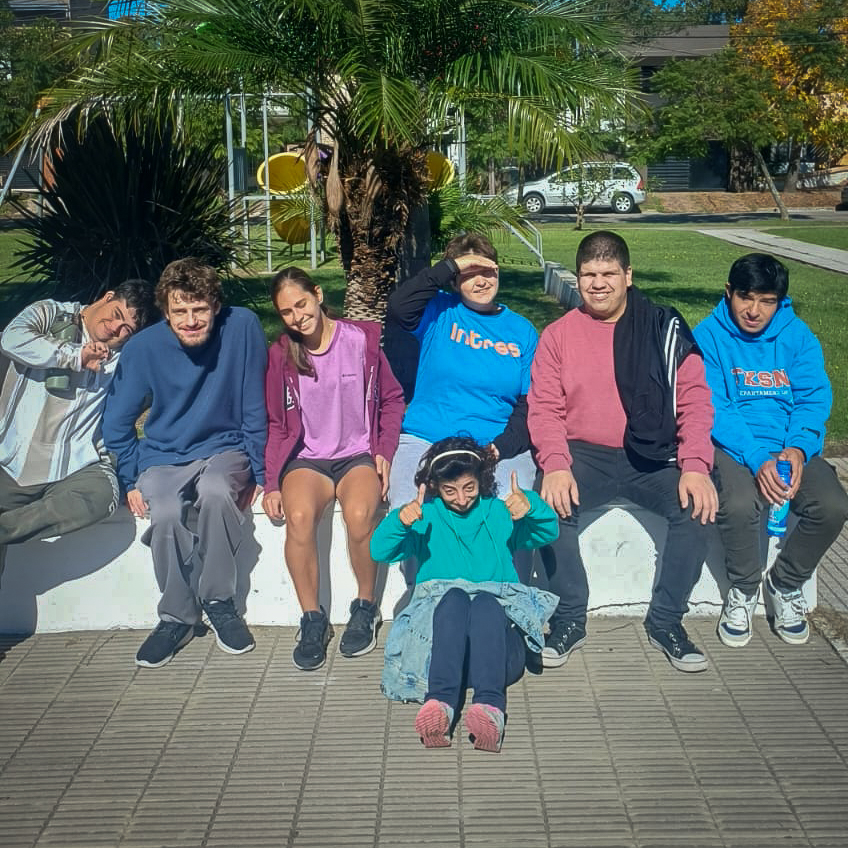
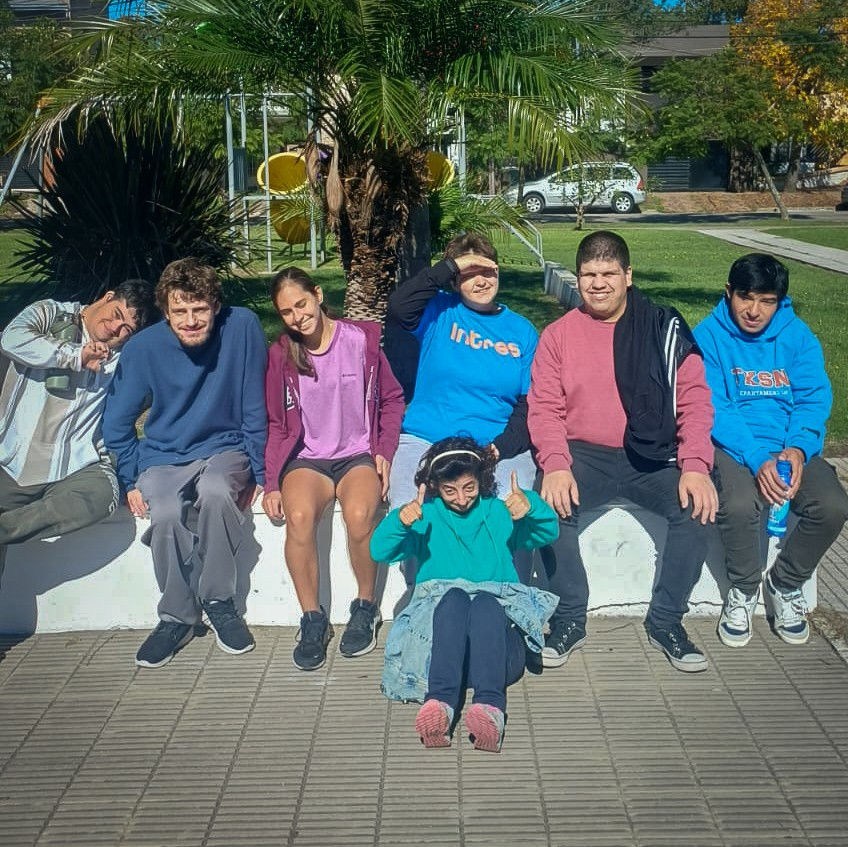
content: update group descriptions, interviews, messages and add new moment images

diff --git a/src/lib/groupsData.ts b/src/lib/groupsData.ts
@@ -63,10 +63,8 @@ export const GROUPS_DATA: GroupDetail[] = [
       { name: "Miguel", icon: "coffee", details: ["Fútbol", "Compartir mates", "Ver películas"], avatarUrl: "/images/group/campeones_del_flow/Miguel.jpg" }
     ],
     messages: [
-      { text: "Gracias por bancarnos siempre y por escucharnos.", author: "Miguel", color: "yellow" },
-      { text: "Sos buen compañero, siempre estás.", author: "Antonella", color: "pink" },
-      { text: "Gracias por enseñar desde el corazón.", author: "Clara", color: "green" },
-      { text: "Por más mates y charlas como las de siempre :)", author: "Antonio", color: "pink" }
+      { text: "Gracias agus por estar siempre con nosotros", author: "", color: "yellow" },
+      { text: "Por mas mates y charlas", author: "", color: "pink" }
     ],
     moments: [
       { imageUrl: "/images/group/campeones_del_flow/momento.jpg", caption: "❤", rotation: -3 },
@@ -92,7 +90,7 @@ export const GROUPS_DATA: GroupDetail[] = [
       role: "TUTORA DEL GRUPO",
       avatarUrl: "/images/group/buenas_vibras/CatalinaTutor.jpg",
       bio: "Coordinadora de talleres de integración. Cree en el poder de la cotidianidad y el juego para sanar vínculos.",
-      quote: "El encuentro verdadero ocurre cuando nos escuchamos despacio.",
+      quote: "Me gusta acompañarlos en sus procesos",
       formation: [
         "Terapista Ocupacional"
       ],
@@ -110,13 +108,11 @@ export const GROUPS_DATA: GroupDetail[] = [
     },
     interview: {
       qaList: [
-        { question: "¿Cómo surgió el nombre 'Buenas Vibras'?", answer: "" },
         { question: "¿De qué te vas a recibir?", answer: "Este año me recibo de terapista ocupacional si todo sale bien el 13 de Julio, ya falta poco, solo un mes." },
         { question: "¿Qué deporte te gusta?", answer: "Mi deporte favorito es el Hockey, desde los 7 años que juego al Hockey. También me gusta mucho el Futbol, ahora con el mundial intento mirar todos los partidos, me gusta el deporte." },
         { question: "¿Qué te gusta comer?", answer: "Me gusta comer de todo, las hamburguesas me gustan mucho, lo confieso (ríe). También la comida que no puede faltar es la milanesa napolitana con papas fritas, me encanta" },
         { question: "¿Qué cosas te hacen reír?", answer: "Las ocurrencias espontáneas. A veces nos quedamos tentados de la risa por cosas muy simples." },
-        { question: "¿Qué es lo que mas te gusta de trabajar con nosotros?", answer: "Lo que mas me gusta de trabajar con ustedes es acompañarlos en sus procesos; me gusta que crezcan, que sean autónomos, que puedan elegir y decidir. Lo que mas me gusta es acompañarlos en ese proceso" },
-        { question: "¿Qué aprendiste de este grupo?", answer: "." }
+        { question: "¿Qué es lo que mas te gusta de trabajar con nosotros?", answer: "Lo que mas me gusta de trabajar con ustedes es acompañarlos en sus procesos; me gusta que crezcan, que sean autónomos, que puedan elegir y decidir. Lo que mas me gusta es acompañarlos en ese proceso" }
       ],
       keywords: ["Escucha", "Mateada", "Cuidado"]
     },
@@ -139,9 +135,11 @@ export const GROUPS_DATA: GroupDetail[] = [
       { text: "No te vayas . Te queremos.", author: "#Buenas vibras", color: "green" }
     ],
     moments: [
-      { imageUrl: "/images/group/buenas_vibras/Brian.jpg", caption: "Compartiendo momentos", rotation: -2 },
-      { imageUrl: "/images/group/buenas_vibras/Gianni.jpg", caption: "Tarde de risas", rotation: 3 },
-      { imageUrl: "/images/group/buenas_vibras/Martina.jpg", caption: "Risas compartidas", rotation: -4 }
+      { imageUrl: "/images/group/buenas_vibras/momento.jpg", caption: "Compartiendo momentos", rotation: -2 },
+      { imageUrl: "/images/group/buenas_vibras/momento2.jpg", caption: "Tarde de risas", rotation: 3 },
+      { imageUrl: "/images/group/buenas_vibras/momento3.jpg", caption: "Risas compartidas", rotation: -4 },
+      { imageUrl: "/images/group/buenas_vibras/momento4.jpg", caption: "Creando juntos", rotation: 2 },
+      { imageUrl: "/images/group/buenas_vibras/momento5.jpg", caption: "Nuestro espacio", rotation: -3 }
     ],
     momentsCaption: "El valor de compartir momentos simples"
   },
@@ -160,13 +158,13 @@ export const GROUPS_DATA: GroupDetail[] = [
       name: "Sebastián",
       role: "TUTOR DEL GRUPO",
       avatarUrl: "/images/group/corazones_en_equipo/SebastianTutor.jpg",
-      bio: "Coordinador de actividades recreativas y artísticas. Apasionado por la música y el trabajo grupal.",
+      bio: "Me gusta verlos trabajar tanto grupal como individualmente",
       quote: "La música y el juego nos conectan desde el alma.",
       formation: [
-        "Acompañante terapéutico",
-        "Terapista Ocupacional"
+        "Estudiante avanzado de Terapia Ocupacional",
+        "Acompañante terapéutico"
       ],
-      interests: ["Música", "Arte", "Juegos", "Mates"]
+      interests: ["Fútbol", "Tenis", "Asado", "Pasear", "Mate", "Cancha"]
     },
     objective: {
       resume: "Promover la autonomía, la comunicación y el compromiso con el grupo, desarrollando habilidades para la vida cotidiana, la convivencia y la participación en distintos espacios", 
@@ -180,9 +178,15 @@ export const GROUPS_DATA: GroupDetail[] = [
     },
     interview: {
       qaList: [
-        { question: "¿Cómo surge Corazones en Equipo?", answer: "Nace del deseo de unir nuestras pasiones por el arte, la música y el juego en un solo gran latido." },
-        { question: "¿Qué rol juega la música en tus talleres?", answer: "Es fundamental, nos ayuda a sintonizar nuestros ritmos, liberar tensiones y crear un clima alegre." },
-        { question: "¿Qué es lo que más valorás del grupo?", answer: "La inmensa empatía que demuestran. Siempre están listos para escucharse y apoyarse." }
+        { question: "¿Qué edad tenés?", answer: "30 añitos." },
+        { question: "¿Tenés novia?", answer: "Sí, Rocío." },
+        { question: "¿Te gusta algún deporte? ¿Cuál?", answer: "Soy fanático del fútbol. Me gusta mirarlo y jugarlo. También me gusta jugar al tenis 🎾." },
+        { question: "¿De qué cuadro sos?", answer: "De Gimnasia y Esgrima La Plata, el lobito 🐺." },
+        { question: "¿Tenés algún hobbie?", answer: "Me gusta mucho hacer asado y estar al lado del fueguito 🔥. También me gusta salir a pasear algún domingo/feriado. Tomar mate 🧉 ir a la cancha." },
+        { question: "¿Qué comida te gusta?", answer: "Milanesa napolitana con puré, peceto a la naranja con puré y guiso de lentejas. Mi top." },
+        { question: "¿Cuál es tu profesión? / ¿Qué estás estudiando?", answer: "Soy estudiante avanzado de Terapia Ocupacional. Además soy acompañante terapéutico." },
+        { question: "¿Cómo surge \"Corazones en equipo\"?", answer: "Tardamos varios días en definirlo. Surgían palabras muy sueltas. Entonces decidimos empezar a jugar con ellas hasta que formamos \"Corazones En Equipo\"." },
+        { question: "¿Qué es lo que más te gusta de trabajar en Intres y con este grupo?", answer: "El estar con y para los pibes básicamente. Y con el grupo ver los procesos diariamente, tanto grupalmente como individualmente." }
       ],
       keywords: ["Unidad", "Expresión", "Empatía"]
     },
@@ -197,9 +201,8 @@ export const GROUPS_DATA: GroupDetail[] = [
       { name: "Valentin", icon: "bolt", details: ["Videojuegos", "Hacer chistes", "Actuar", "Tecnología", "Bicicleta", "Frutillas"], avatarUrl: "/images/group/corazones_en_equipo/Valentin.jpg" }
     ],
     messages: [
-      { text: "Gracias Sebas por traer siempre tanta buena energía y música.", author: "Dalila", color: "pink" },
-      { text: "Nos hacés sentir parte de un equipo de verdad.", author: "Valentin", color: "green" },
-      { text: "Gracias por la paciencia y los momentos compartidos.", author: "Lucia", color: "yellow" }
+      { text: "Gracias por ser bueno con nosotros", author: "", color: "pink" },
+      { text: "Aprendemos un monton con vos", author: "", color: "green" }
     ],
     moments: [
       { imageUrl: "/images/group/corazones_en_equipo/Dalila.jpg", caption: "Talleres y expresión", rotation: -2 },
@@ -225,8 +228,8 @@ export const GROUPS_DATA: GroupDetail[] = [
       name: "Tamara",
       role: "TUTORA DEL GRUPO",
       avatarUrl: "/images/group/la_banda_colorida/TamaraTutora.jpg",
-      bio: "Artista visual y docente de educación artística. Impulsora del muralismo comunitario como herramienta social.",
-      quote: "El arte no es para hacerlo bien, es para liberarse.",
+      bio: "Busca promover espacios tanto de disfrute como de tranquilidad.",
+      quote: "No hay una forma de hacerlo bien",
       formation: [
         "Acompañante terapéutica",
         "Profesora de educación especial"
@@ -276,10 +279,7 @@ export const GROUPS_DATA: GroupDetail[] = [
       { name: "Mili Da Giau", icon: "music", details: ["Tocar la batería", "Grafiti y lettering", "Ver pelis de acción"], avatarUrl: "/images/group/la_banda_colorida/MiliDaGiau.jpg" },
       { name: "Mili Costilla", icon: "smile", details: ["Modelar arcilla", "Adoptar gatitos", "Decorar tortas dulces"], avatarUrl: "/images/group/la_banda_colorida/MiliCostilla.jpg" }
     ],
-    messages: [
-      { text: "Tamara nos diste la confianza para agarrar el pincel sin miedo.", author: "Lucas", color: "pink" },
-      { text: "El taller de arte es mi cable a tierra. ¡Gracias totales!", author: "Elena", color: "yellow" }
-    ],
+    messages: [],
     moments: [
       { imageUrl: "/images/group/la_banda_colorida/TamaraTutora.jpg", caption: "Espacio creativo", rotation: 3 },
       { imageUrl: "/images/group/la_banda_colorida/MiliCostilla.jpg", caption: "Creando con Mili C.", rotation: -2 },
@@ -303,12 +303,12 @@ export const GROUPS_DATA: GroupDetail[] = [
       role: "TUTORA DEL GRUPO",
       avatarUrl: "/images/group/quienes_somos/AgustinaTutora.jpg",
       bio: "Licenciada en Psicología. Acompaña procesos grupales y creativos potenciando la expresión en primera persona.",
-      quote: "Nuestra historia no está cerrada, la seguimos escribiendo hoy.",
+      quote: "Quiero que logren hablar en primera persona",
       formation: [
         "Lic. en Psicología",
         "Actriz"
       ],
-      interests: ["Arte", "Teatro", "Gimnasia", "Creatividad"]
+      interests: ["Arte", "Teatro", "Creatividad"]
     },
     objective: "Construir un proyecto laboral que favorezca el reconocimiento de las capacidades e intereses de cada joven, promoviendo la autonomía, el compromiso, la cooperación y la participación activa en la comunidad.",
     interview: {
@@ -318,7 +318,6 @@ export const GROUPS_DATA: GroupDetail[] = [
         { question: "¿De qué te recibiste?", answer: "Me recibí de Licenciada en Psicología. Tuve la suerte de que me estén acompañando y disfrutando conmigo." },
         { question: "¿Qué edad tenés?", answer: "26 años." },
         { question: "¿Tenés novio?", answer: "Sí." },
-        { question: "¿Te gusta el fútbol?", answer: "No le doy mucha bolilla pero soy de Gimnasia." },
         { question: "¿Y algún otro deporte?", answer: "Soy más del palo del arte." }
       ],
       keywords: ["Proceso", "Creatividad", "Expresión"]

diff --git a/src/app/grupos/[slug]/page.tsx b/src/app/grupos/[slug]/page.tsx
@@ -132,15 +132,17 @@ export default function GroupDetailPage() {
               <GroupMembers members={group.members} />
             </AccordionPanel>
 
-            <AccordionPanel 
-              title="¿QUÉ LE QUIEREN DECIR LOS PIBES AL TUTOR?"
-              panelKey="messages"
-              isOpen={openPanels.messages}
-              onToggle={() => togglePanel("messages")}
-              className={styles.messagesPanel}
-            >
-              <StudentMessages messages={group.messages} />
-            </AccordionPanel>
+            {group.messages && group.messages.length > 0 && (
+              <AccordionPanel 
+                title="¿QUÉ LE QUIEREN DECIR LOS PIBES AL TUTOR?"
+                panelKey="messages"
+                isOpen={openPanels.messages}
+                onToggle={() => togglePanel("messages")}
+                className={styles.messagesPanel}
+              >
+                <StudentMessages messages={group.messages} />
+              </AccordionPanel>
+            )}
           </div>
 
           {/* Gallery Moments */}

diff --git a/src/components/groups/GroupHeroHeader/GroupHeroHeader.tsx b/src/components/groups/GroupHeroHeader/GroupHeroHeader.tsx
@@ -29,7 +29,12 @@ export const GroupHeroHeader: React.FC<GroupHeroHeaderProps> = ({ group }) => {
           <PolaroidPhoto 
             src={group.heroCollage[0]} // First image as main landscape group photo
             alt={group.name}
-            aspectRatio="square"
+            aspectRatio={
+              group.heroCollage[0]?.toLowerCase().includes("grupal") || 
+              group.heroCollage[0]?.toLowerCase().includes("todos")
+                ? "landscape"
+                : "square"
+            }
             rotation={-3}
             width="100%"
             tape={true}

diff --git a/src/components/groups/StudentMessages/StudentMessages.tsx b/src/components/groups/StudentMessages/StudentMessages.tsx
@@ -33,7 +33,9 @@ export const StudentMessages: React.FC<StudentMessagesProps> = ({ messages }) =>
                 className={styles.boardPostIt}
               >
                 <p className={styles.messageText}>&quot;{msg.text}&quot;</p>
-                <span className={styles.author}>— {msg.author}</span>
+                {msg.author && msg.author.trim() !== "" && (
+                  <span className={styles.author}>— {msg.author}</span>
+                )}
               </PostItNote>
             </div>
           );
